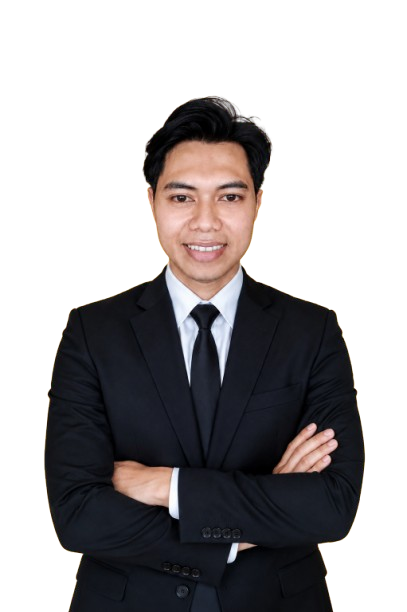
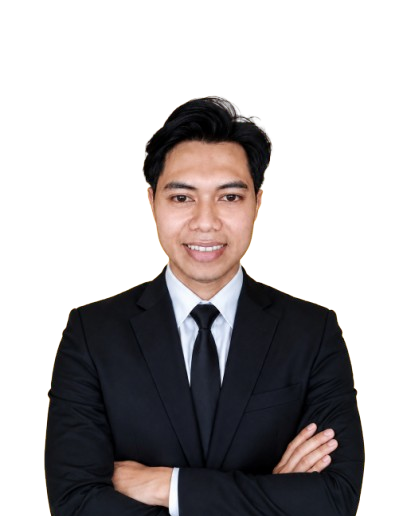
Add files via upload

diff --git a/index.html b/index.html
@@ -63,7 +63,7 @@
 					<a href="#pendidikan" class="hover:text-gray-500 transition">
 						Pendidikan
 					</a>
-					<a href="#kontak" class="hover:text-gray-500 transition"> Kontak </a>
+					<a href="#contact" class="hover:text-gray-500 transition"> Kontak </a>
 				</div>
 
 				<!-- TABLET -->
@@ -83,7 +83,7 @@
 					<a href="#pendidikan" class="hover:text-gray-500 transition">
 						Pendidikan
 					</a>
-					<a href="#kontak" class="hover:text-gray-500 transition"> Kontak </a>
+					<a href="#contact" class="hover:text-gray-500 transition"> Kontak </a>
 				</div>
 
 				<!-- MOBILE -->
@@ -132,7 +132,7 @@
 					<a href="#pendidikan" class="hover:text-gray-500 transition">
 						Pendidikan
 					</a>
-					<a href="#kontak" class="hover:text-gray-500 transition"> Kontak </a>
+					<a href="#contact" class="hover:text-gray-500 transition"> Kontak </a>
 				</div>
 			</div>
 		</nav>
@@ -181,7 +181,7 @@
 								<img
 									src="assets/img/img-1.png"
 									alt="Foto Profil"
-									class="h-full w-full object-cover relative top-4"
+									class="w-full object-cover relative bottom-16"
 								/>
 							</div>
 						</div>
@@ -210,17 +210,13 @@
 					<!-- FOTO -->
 					<div class="flex justify-center items-center w-full">
 						<div
-							class="relative w-64 h-64 sm:w-72 sm:h-72 lg:w-96 lg:h-96 flex items-center justify-center"
+							class="rounded-lg overflow-hidden relative aspect-square w-56 h-56 sm:w-64 sm:h-64 lg:w-96 lg:h-96 border-b-[7px] border-l-[7px] border-t border-r border-black z-10"
 						>
-							<div
-								class="rounded-lg overflow-hidden relative aspect-square w-56 h-56 sm:w-64 sm:h-64 lg:w-80 lg:h-80 border-b-[7px] border-l-[7px] border-t border-r border-black z-10"
-							>
-								<img
-									src="assets/img/img-2.png"
-									alt="Foto Profil"
-									class="h-full w-full object-cover relative top-4"
-								/>
-							</div>
+							<img
+								src="assets/img/img-2.jpeg"
+								alt="Foto Profil"
+								class="h-full w-full object-cover"
+							/>
 						</div>
 					</div>
 
